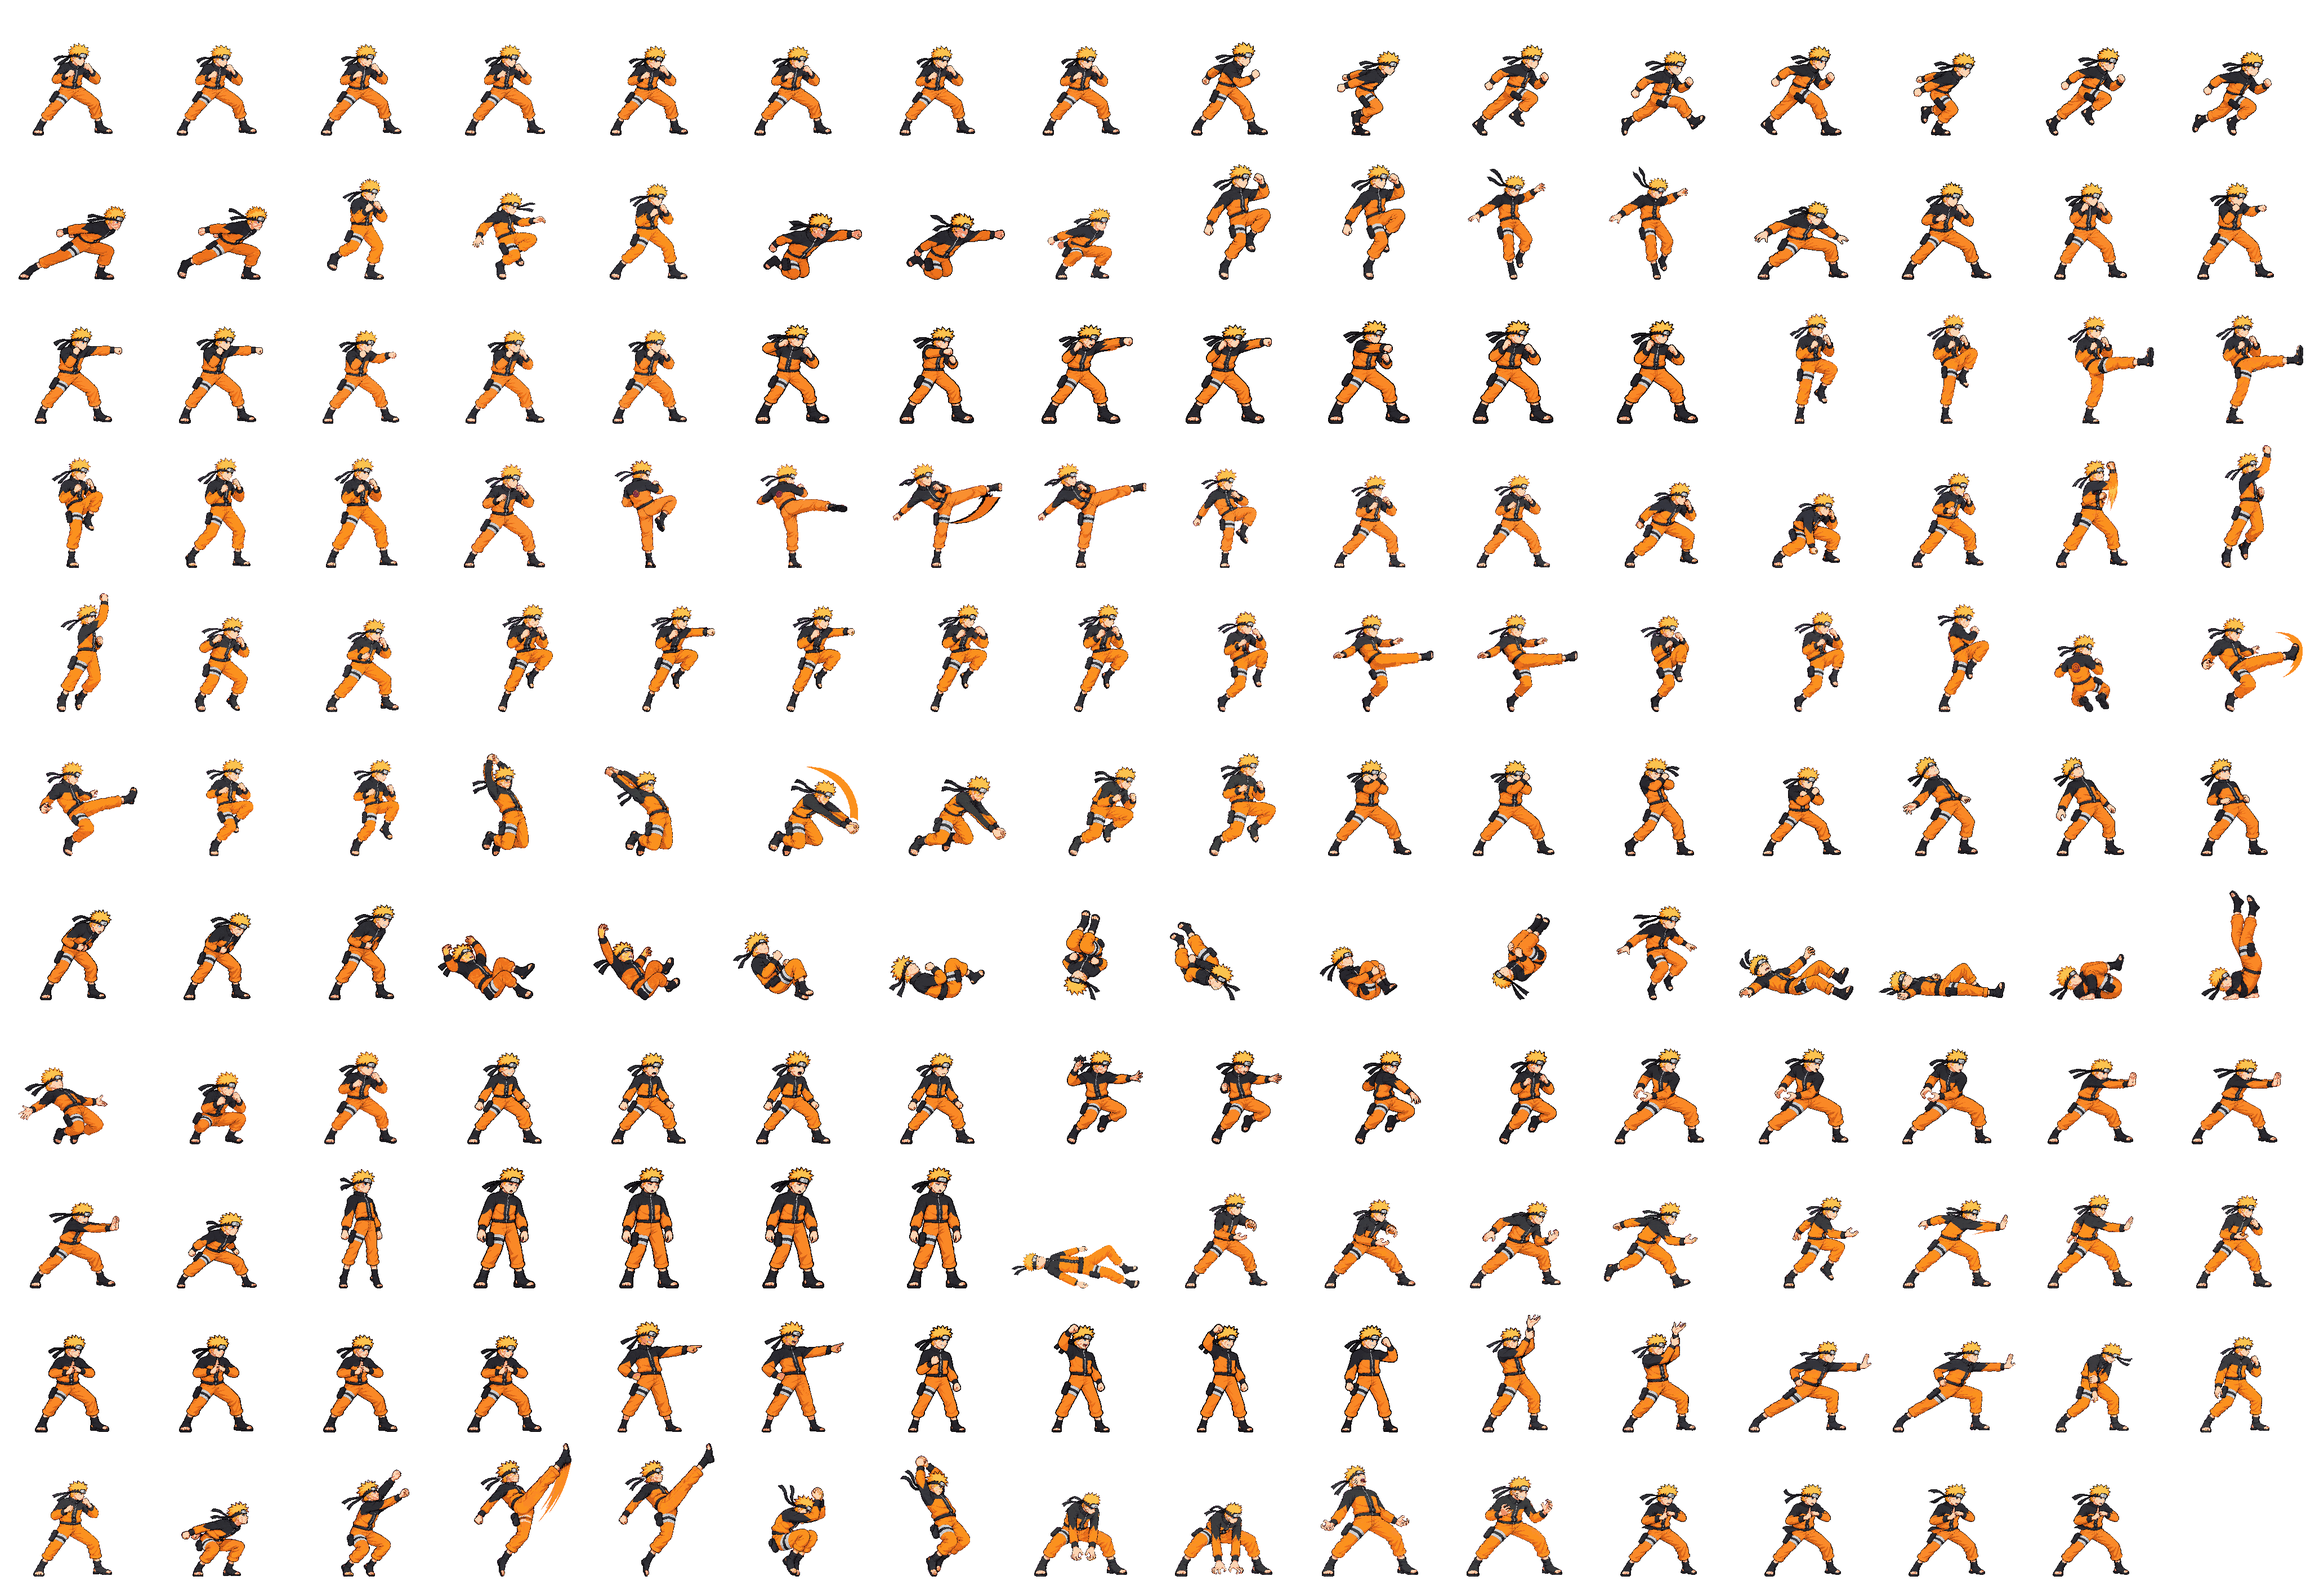
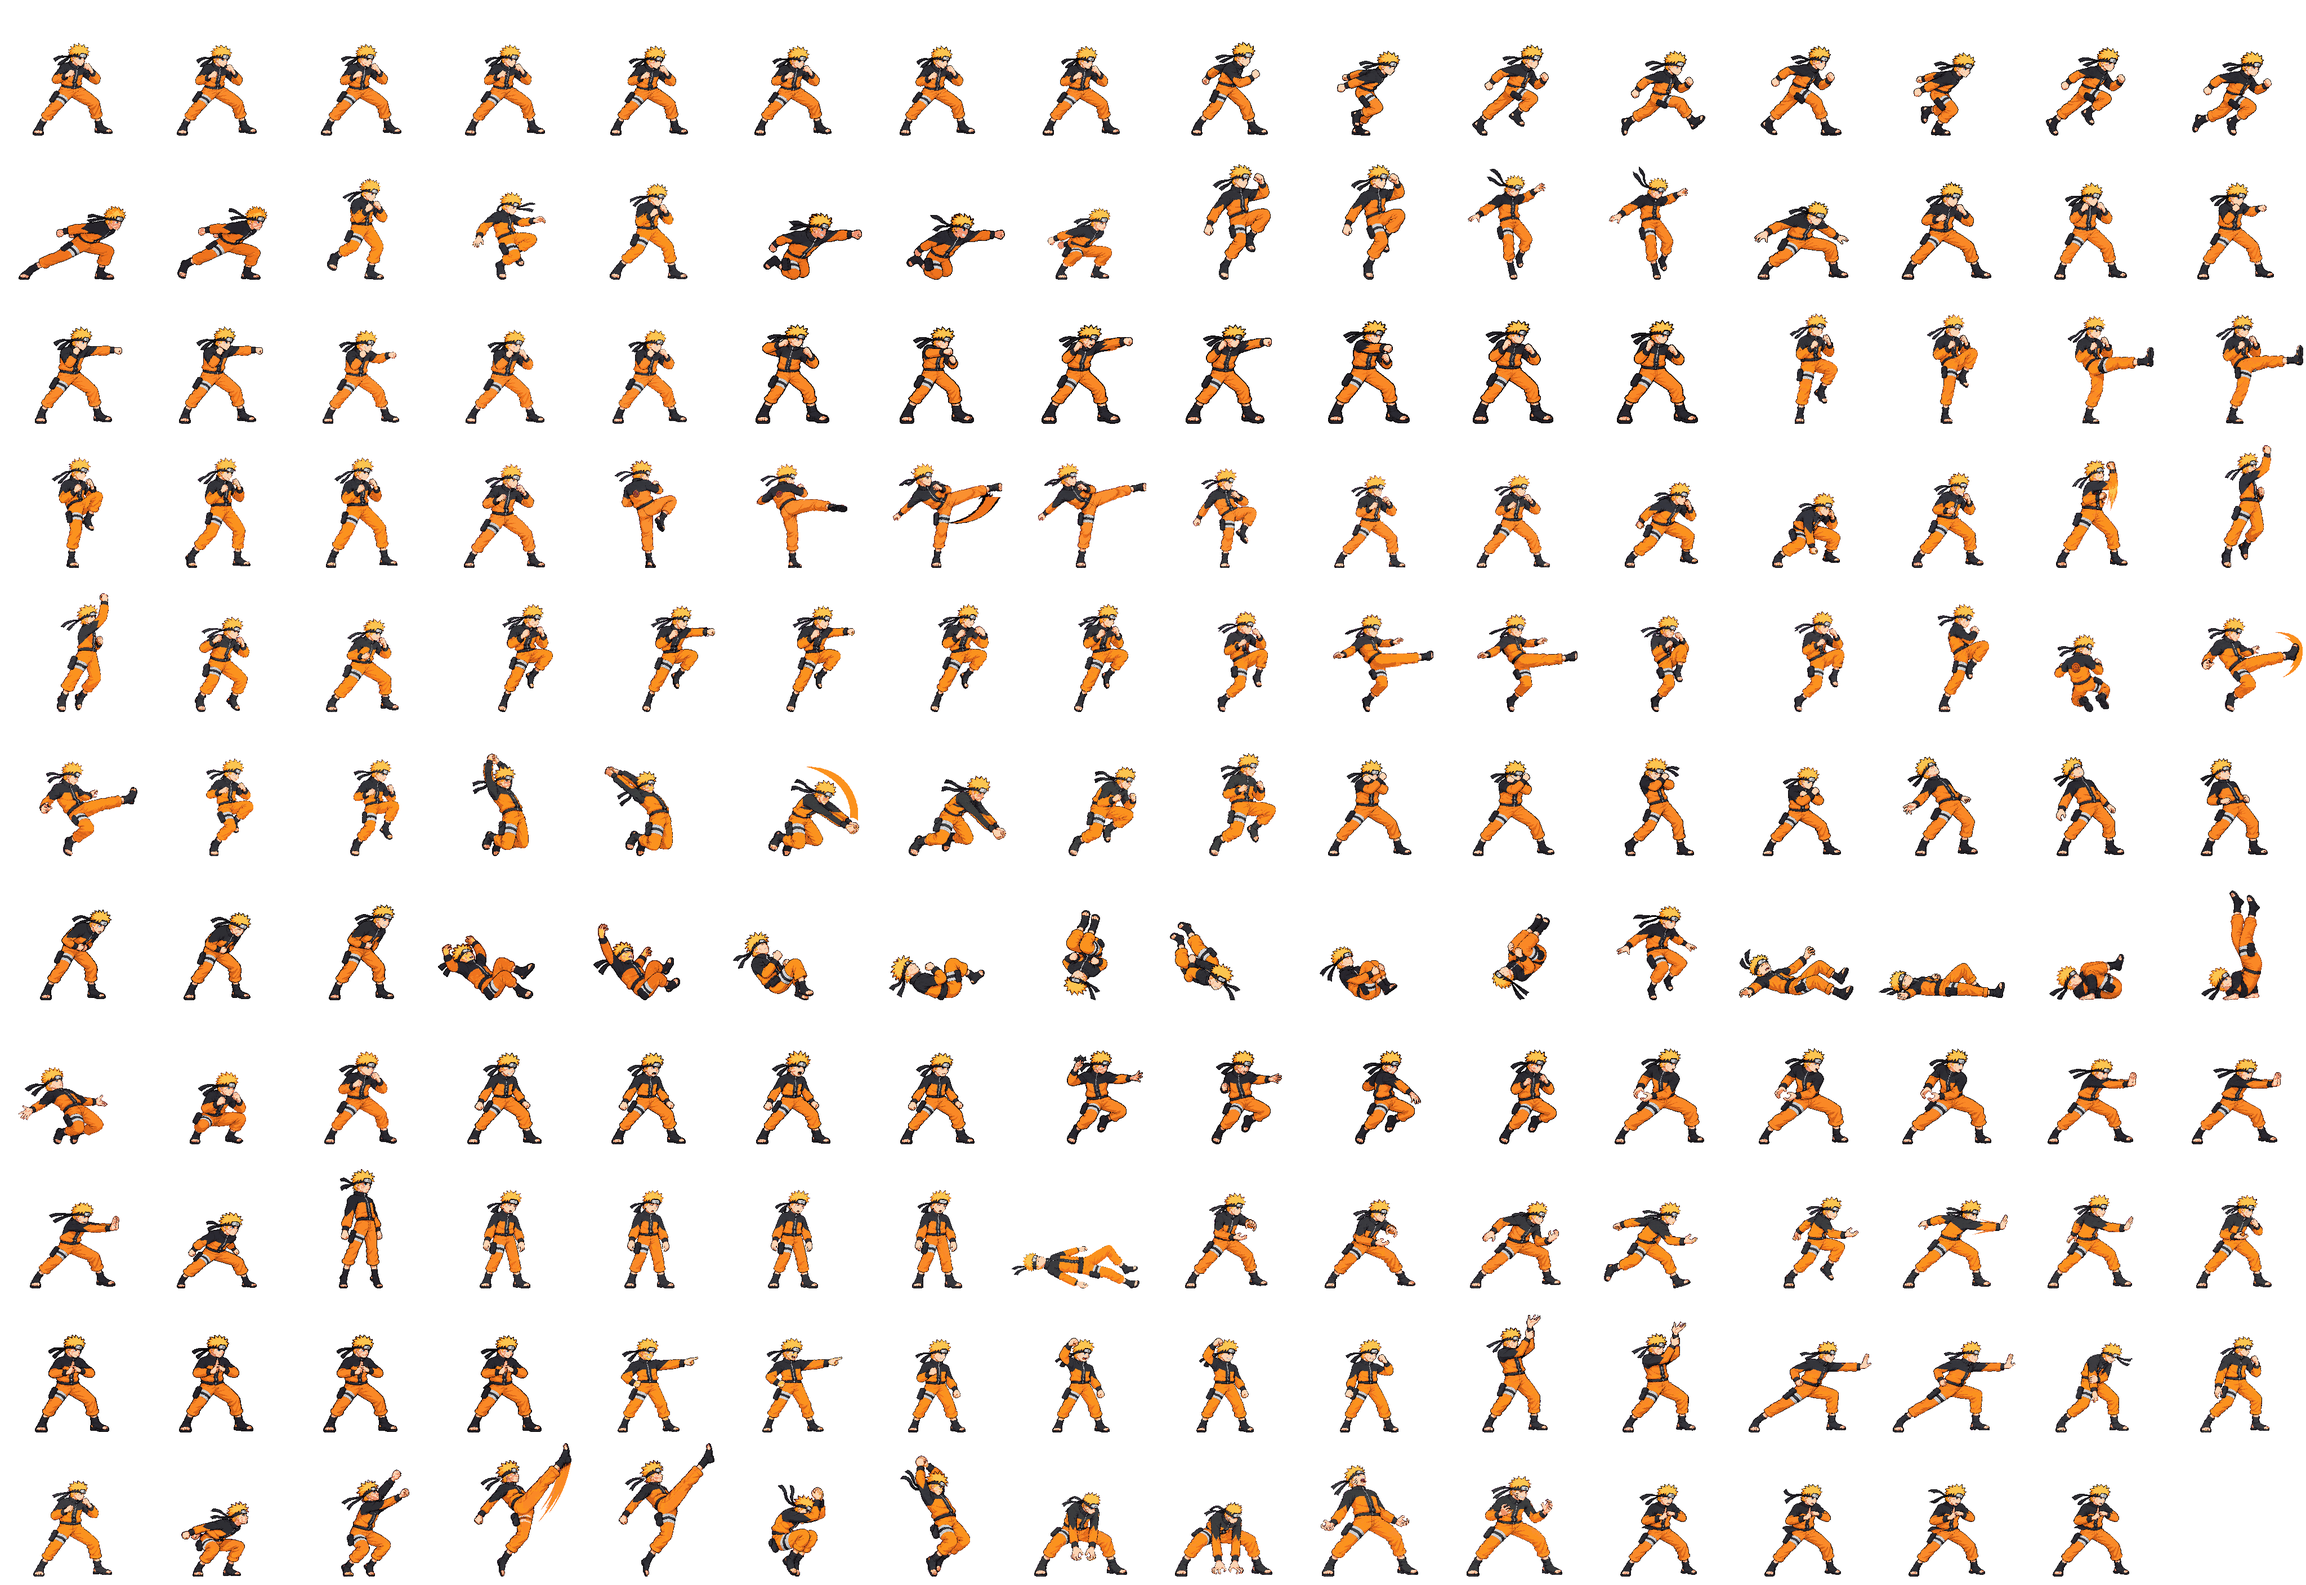
chore(naruto): calibrate round-4 stagger, taunt and win to idle07's rigid markers (QA-NAR-R4-CAL)
bodyHeight in each version's raw sidecar: stagger v06 216->175 (k 0.81), taunt v07
198->168 (k 0.85), win v08 193->168 (k 0.87, interim: no uniform factor fits its head and
shoe together; residual named in CALIBRATION.md). jumpUp v06 and superDash v03 unchanged.
Repacked with --quantize 48; evidence in production/round4/claude-calibration/.

Changed region(s): [[0.25, 0.8438, 0.625, 0.9062], [0.1875, 0.75, 0.4375, 0.8125]]

diff --git a/art/characters/naruto/production/round4/claude-calibration/CALIBRATION.md b/art/characters/naruto/production/round4/claude-calibration/CALIBRATION.md
@@ -1,0 +1,77 @@
+# Naruto round 4: Claude calibration (QA-NAR-R4-CAL, 2026-10-14)
+
+Requested in docs/agents/CLAUDE_ART_HANDOFF.md (Codex, 2026-10-13). Inputs: Luna's `../repair-analysis.md` and
+Astra's `../repair-audit/PRE-CALIBRATION.md` on this branch (`2bbb71d`). No generation, no budget change, no art
+approval, no merge, no production deploy.
+
+## What changed
+
+The **quantized atlas** changed (packer `bodyHeight`), not a runtime-only scale, so every packed pixel Astra
+measures is new. Each calibration lives in that version's raw sidecar, so a later version or a rollback to the
+approved strip is not resized by it:
+
+| strip | sidecar | bodyHeight | factor | packed head probe (strip / frames) |
+|---|---|---:|---:|---|
+| stagger v06 | `raw/stagger_v06.json` | 216 -> **175** | 0.81 | 0.959 / 0.954-0.967 |
+| taunt v07 | `raw/taunt_v07.json` | 198 -> **168** | 0.85 | 1.007 / 1.000-1.014 |
+| win v08 | `raw/win_v08.json` | 193 -> **168** | 0.87 | 1.039 / 1.010-1.074 |
+| jumpUp v06 | unchanged | 205 | 1 | 1.011 / 0.97-1.053 |
+| superDash v03 | unchanged | 120 | 1 | 0.986 / 0.973-1.000 |
+
+Pack: `node tools/pack-sprites.mjs naruto --quantize 48` on this branch. `--strict-scale` fails only on `spin`, the
+recorded stand-in size exception (head 12 % big, round-3 item), not on any strip touched here.
[2 lines of base64/hex data omitted]
+The whole sheet is re-quantized (one 48-colour palette), so other strips' colours can shift by a few levels; their
+geometry and scale are unchanged.
+
+## How the factors were chosen
+
+Rigid markers decide scale: the hair-inclusive head (crown to chin) and the visible profile shoe, which do not change
+with pose. The torso projection does (Astra: neutral collar-to-hem about 50.5 px vs combat/idle 38.5), so it is not a
+scale marker here. Three independent readings at the old packing, each turned into the factor range that puts it
+within +-6 % of idle07:
+
+| strip | gate head probe | Astra H (idle 37-41) | Astra S (idle 25-30) | feasible k (all three) | chosen |
+|---|---|---|---|---|---|
+| stagger06 | 1.19 -> k 0.790-0.891 | 48-52 -> k 0.733-0.827 | 33-37 -> k 0.739-0.833 | **0.790-0.827** | 0.81 |
+| taunt07 | 1.20 -> k 0.783-0.883 | 45-49 -> k 0.780-0.880 | 29-34 -> k 0.821-0.925 | **0.821-0.880** | 0.85 |
+| win08 | 1.19 -> k 0.790-0.891 | 44-49 -> k 0.788-0.889 | 25-30 -> k 0.94-1.06 | **empty** | 0.87 (interim) |
+
+H and S ranges use the central values of Astra's intervals. They screen for one shared factor; they are not a pass.
+
+## Residual: win08
+
+No single factor satisfies win's head and shoe together: at the old size its shoe already matched the idle while its
+head read about 1.19. Even at the interim factor, win f0's head probe reads 1.074, just past +6 %. The head is drawn roughly 15-19 % large for this body (equivalently, the body is small for the
+head). The interim factor puts the head first, so it no longer pops in game, but the shoe now reads about 0.87 and the
+standing figure is about 0.82 of the neutral's height (the body sheet's garment number B is 0.68 here, advisory). If
+Astra confirms this on the calibrated atlas, it is a **robust measured failure** and qualifies win08 for one of its two
+remaining round-4 calls: a redraw at idle07's head-to-body ratio (head about 15 % smaller relative to the body), same
+pose. Taunt's B also reads 0.69; that number is pose-dependent (open stance, raised pointing arm), so it needs Astra's
+segment audit rather than a redraw on this evidence.
+
+## Contact effects (hurt boxes, world units)
+
+| strip | hurt top main -> branch | hurt width main -> branch | in combat? |
+|---|---|---|---|
+| stagger | 1.61 -> 1.30 | 0.54 -> 0.45 (the game widens every hurt box to at least 0.56) | yes: the guard-crush / parry stagger |
+| taunt | 1.47 -> 1.25 | 0.74 -> 0.70 | no |
+| win | 1.43 -> 1.24 | 0.51 -> 0.52 | no |
+
+Stagger's old 1.61 top came from the inflated v05 body; 1.30 sits just above the idle's 1.20, as a staggering
+upright body should. A head-high strike aimed above 1.30 now whiffs on a staggered Naruto where it used to connect;
+Claude checks that in game (CPU soak) at integration. No hit boxes change (none of these strips attacks).
+
+## Evidence
+
+- `compare-2x.png`: neutral cell, combat cell, idle07 f0, stagger f0/f2, taunt f0, win f0/f1/f3 from the calibrated
+  atlas at 2x on one floor line.
+- `body-naruto-stagger-taunt-win-jumpUp-superDash.png` + `body-report.json`: `npm run body` on the calibrated atlas.
+
+## Next
+
+Astra rechecks every frame and loop of stagger, taunt and win (plus jumpUp and superDash) in this atlas: H, T against
+the right reference cell per pose, upper and lower limbs where visible, S, frontal shoulders when available. Codex
+spends a remaining call only on a residual Astra confirms. Claude's reservation of the five strips' bodyHeight,
+offsets, sidecars, hitboxes and this folder ends with this note; ask again before re-calibrating after a redraw.
